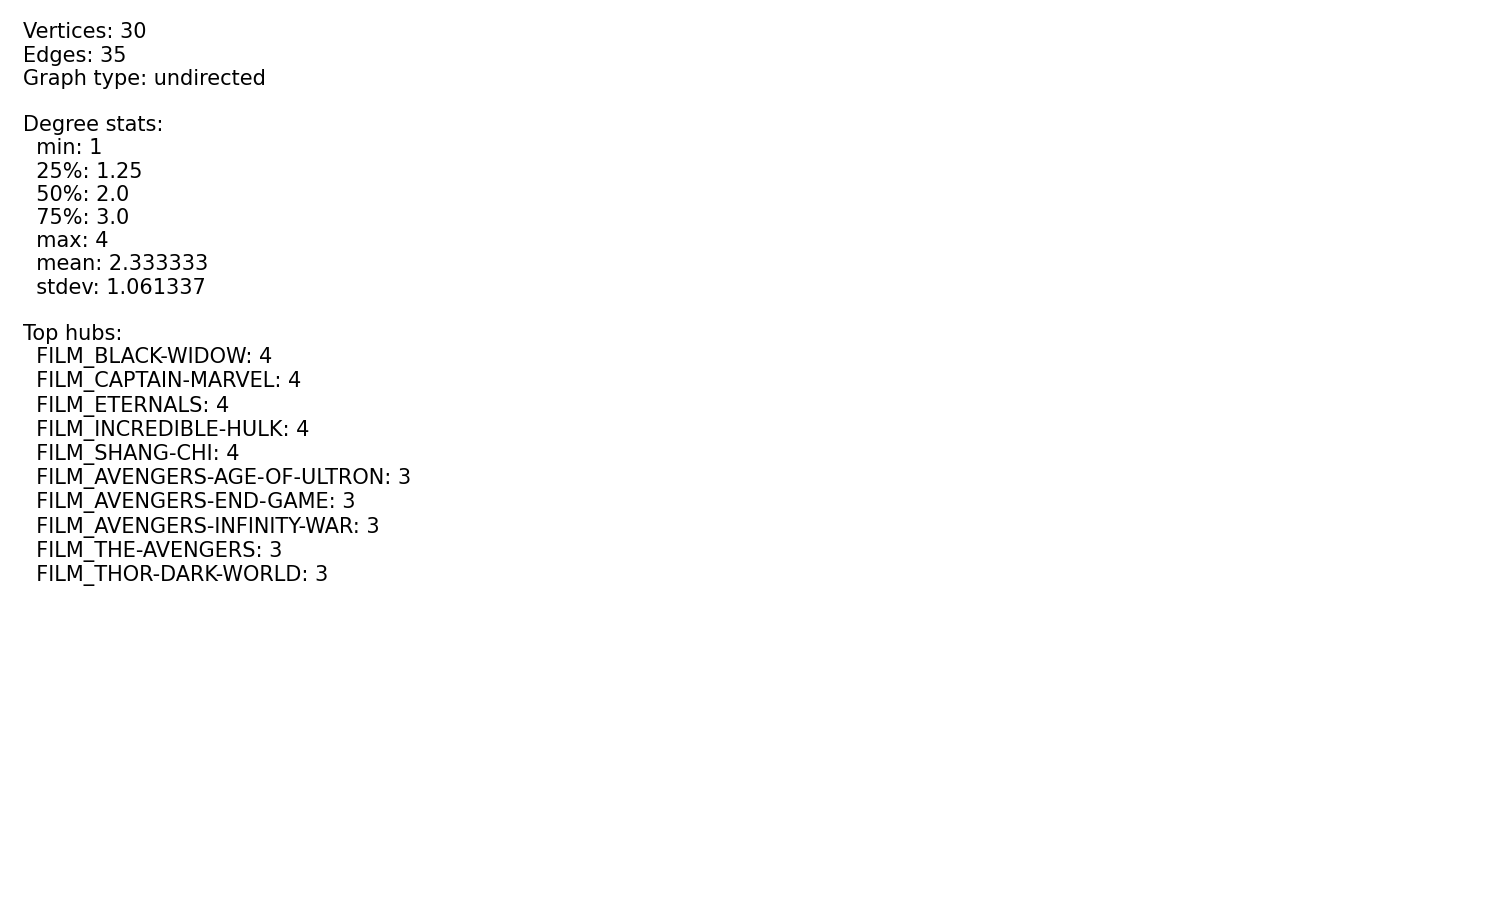
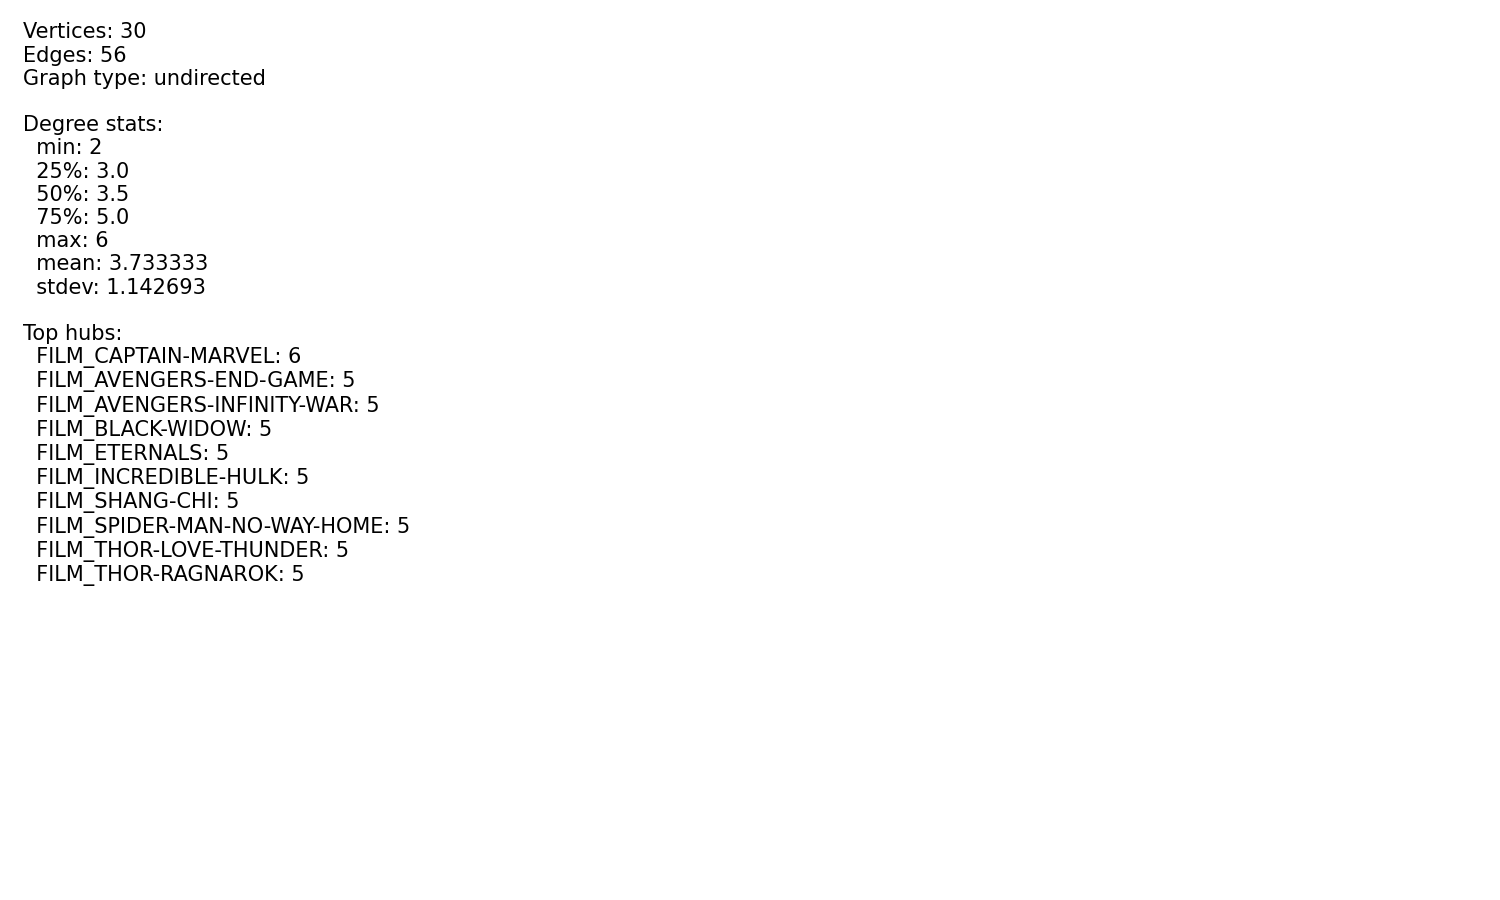
feat: update graph data and add degree distribution and description files

diff --git a/Backend/src/cli.py b/Backend/src/cli.py
@@ -193,7 +193,7 @@ def _executar(args):
 
         if part2_indicator:
             try:
-                from graphs.io import save_dataset_description
+                from src.graphs.io import save_dataset_description
                 save_dataset_description(grafo, args.out)
                 print(f"[cli] Descrição do dataset Parte 2 salva em '{args.out}'")
             except Exception as exc: